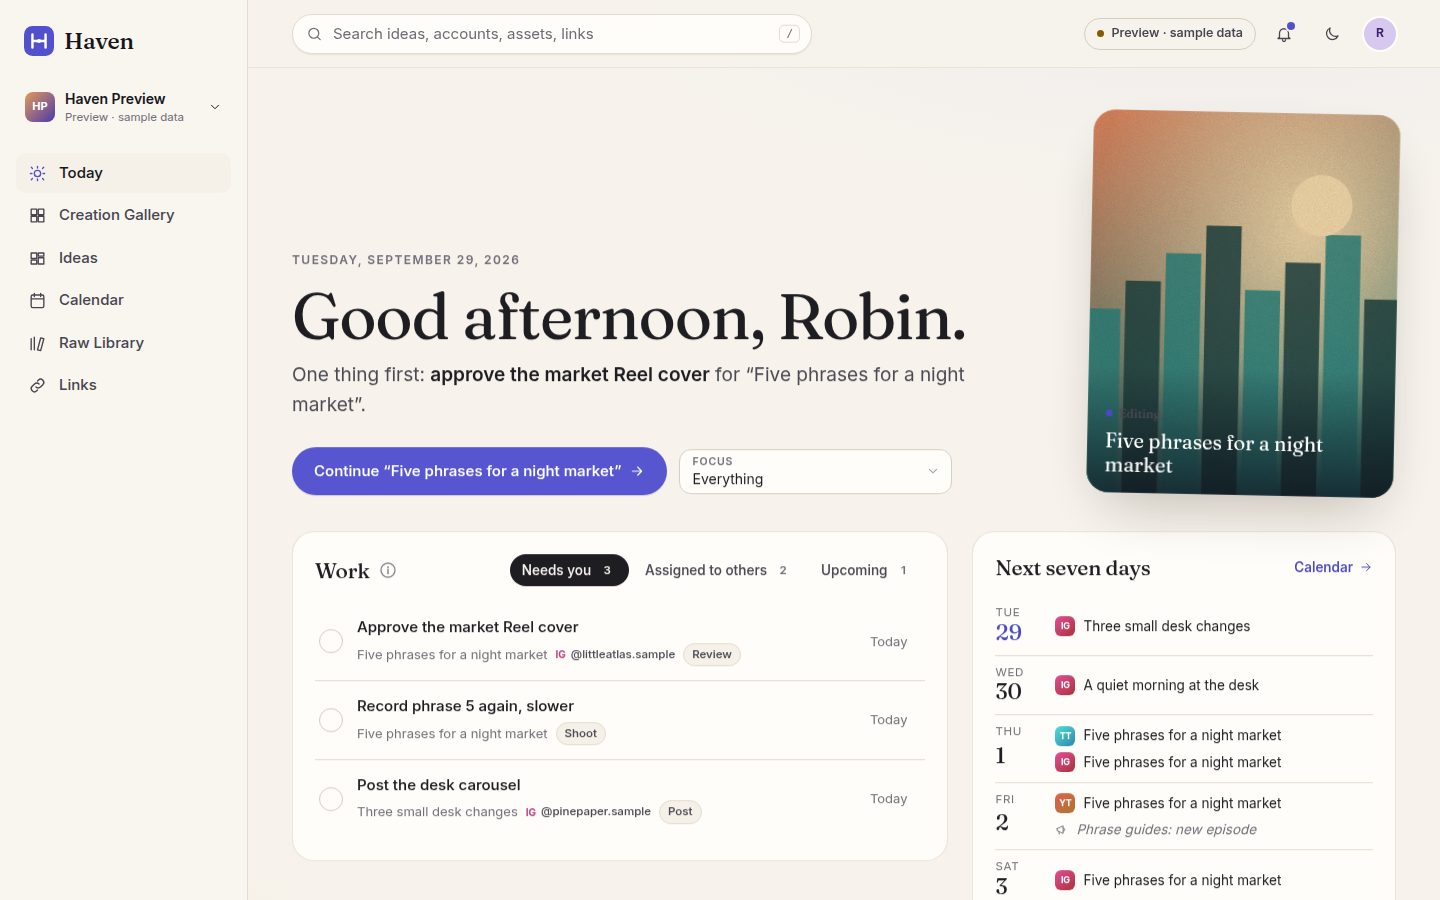
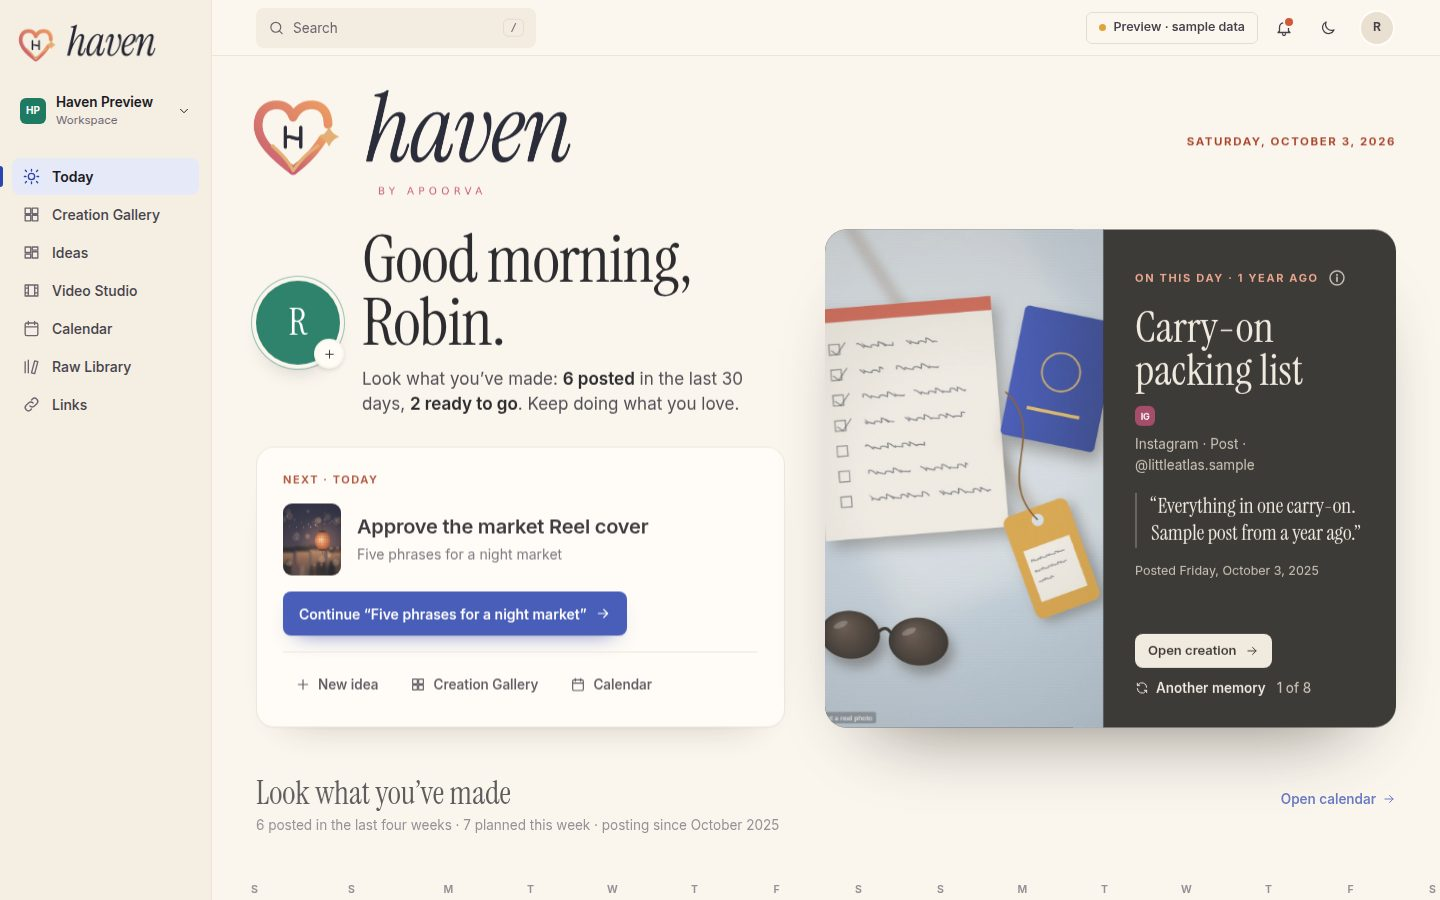
Brand: the Sunlit Rose H heart
- Supplied artwork in public/brand/ (transparent margins trimmed only;
  every visible pixel unchanged). Dark-theme versions recolour just the
  ink (wordmark and the H) to cream; heart, sparkle, tick and byline keep
  their colours.
- "haven / BY APOORVA" on Today's welcome header and the About panel;
  "haven" without the byline in the sidebar and phone drawer; the square
  icon in the collapsed sidebar and phone top bar.
- Favicon, Apple touch icon and a web manifest use the new icon; the old
  H tile, its styles and the temporary wordmark are removed.

Claude-Session: https://claude.ai/code/session_01LAmW9E9r5nQYz3tXkcR9Cd

diff --git a/src/styles/app.css b/src/styles/app.css
@@ -325,12 +325,6 @@ svg {
   gap: 10px;
   padding: 2px 8px;
 }
-.brand__name {
-  font-family: var(--font-display);
-  font-size: 23px;
-  font-weight: 500;
-  letter-spacing: -0.01em;
-}
 
 .nav {
   display: grid;
@@ -4255,11 +4249,10 @@ a.week__item:hover {
     padding: 20px 12px;
     align-items: center;
   }
-  .sidebar .brand__name,
   .sidebar .ws__text,
-  .sidebar .ws__btn > svg,
-  .sidebar .storage-mini,
-  .sidebar .sidebar__note {
+.sidebar .ws__btn > svg,
+.sidebar .storage-mini,
+.sidebar .sidebar__note {
     display: none;
   }
   .ws__btn {
@@ -5332,14 +5325,7 @@ body {
 .brand {
   padding: 0 8px;
 }
-.brand__name {
-  font-size: 26px;
-  font-weight: 400;
-  letter-spacing: 0;
-}
-.haven-mark rect {
-  rx: 8px;
-}
+
 .ws__btn {
   border: 0;
   background: transparent;
@@ -6368,17 +6354,7 @@ body {
 .tabbar__item.active {
   color: var(--cobalt);
 }
-.haven-mark rect {
-  fill: var(--ink);
-}
-.haven-mark path,
-.haven-mark circle {
-  stroke: var(--canvas);
-}
-.haven-mark circle {
-  fill: var(--coral-fill);
-  stroke: none;
-}
+
 .ws__avatar {
   background: var(--jade-fill);
   color: #fff;
@@ -7006,38 +6982,6 @@ body {
   animation-delay: calc(var(--i, 0) * 90ms);
 }
 
-/* Temporary wordmark (replace in src/components/Wordmark.tsx) */
-.wordmark {
-  display: inline-flex;
-  align-items: flex-end;
-  gap: 3px;
-  color: var(--ink);
-}
-.wordmark__type {
-  font-family: var(--font-display);
-  font-size: 34px;
-  line-height: 0.9;
-  letter-spacing: -0.01em;
-}
-.wordmark__dot {
-  width: 7px;
-  height: 7px;
-  margin-bottom: 4px;
-  border-radius: 50%;
-  background: var(--coral-fill);
-}
-.wordmark img {
-  height: 34px;
-  width: auto;
-}
-.wordmark__dark,
-:root[data-theme='dark'] .wordmark__light {
-  display: none;
-}
-:root[data-theme='dark'] .wordmark__dark {
-  display: block;
-}
-
 .t-top {
   display: flex;
   align-items: flex-end;
@@ -7580,9 +7524,7 @@ body {
   .t-top {
     margin-bottom: -8px;
   }
-  .wordmark__type {
-    font-size: 28px;
-  }
+  
   .t-hello__who {
     align-items: flex-start;
     gap: 16px;
@@ -8635,7 +8577,6 @@ body {
   }
 }
 
-
 /* Notes document */
 .notesdoc {
   font-size: 15px;
@@ -9167,7 +9108,6 @@ button.viewbar__btn:hover:not(:disabled) {
     transform: rotate(360deg);
   }
 }
-
 
 /* ==========================================================================
    Video Studio · review player and booklet
@@ -10778,5 +10718,88 @@ button.viewbar__btn:hover:not(:disabled) {
   .psettings__scope {
     flex-basis: 100%;
     order: 3;
+  }
+}
+
+/* ==========================================================================
+   Brand: the Sunlit Rose H (public/brand). Sized by height; the width
+   always follows the artwork, so it never stretches or clips.
+   ========================================================================== */
+.brand-logo {
+  display: block;
+  flex: none;
+  height: var(--logo-h-override, var(--logo-h));
+  width: auto;
+  aspect-ratio: var(--logo-ar);
+  line-height: 0;
+  user-select: none;
+}
+span.brand-logo img {
+  display: block;
+  width: 100%;
+  height: 100%;
+}
+.brand-logo__dark {
+  display: none !important;
+}
+:root[data-theme='dark'] .brand-logo__light {
+  display: none !important;
+}
+:root[data-theme='dark'] .brand-logo__dark {
+  display: block !important;
+}
+.brand {
+  padding: 2px 6px;
+  border-radius: 12px;
+}
+.brand:focus-visible {
+  outline: 2px solid var(--focus);
+  outline-offset: 2px;
+}
+.brand__icon {
+  display: none !important;
+}
+@media (max-width: 1180px) {
+  .sidebar .brand {
+    padding: 0;
+  }
+  .sidebar .brand__wordmark {
+    display: none !important;
+  }
+  .sidebar .brand__icon {
+    display: block !important;
+  }
+}
+.topbar__brand {
+  line-height: 0;
+}
+.drawer__head .brand {
+  padding-left: 2px;
+}
+.t-top {
+  align-items: center;
+}
+/* The founder logo's own transparent margin sits at its left edge. */
+.t-top__logo {
+  margin-left: -4px;
+}
+.about-brand {
+  display: flex;
+  justify-content: center;
+  padding: 6px 0 18px;
+  margin-bottom: 14px;
+  border-bottom: 1px solid var(--hairline);
+}
+@media (max-width: 720px) {
+  .t-top__logo {
+    --logo-h-override: 84px;
+  }
+  .t-top {
+    align-items: flex-start;
+    flex-direction: column;
+    gap: 16px;
+  }
+  .about-brand .brand-logo {
+    --logo-h-override: 96px;
   }
 }

diff --git a/src/components/Shell.tsx b/src/components/Shell.tsx
@@ -10,6 +10,7 @@ import { Modal } from './Modal';
 import { useToast } from './Toast';
 import { Avatar, DemoTag, useDismiss } from './ui';
 import { ProfileSettings } from './ProfileSettings';
+import { BrandLogo } from './Brand';
 import { PALETTES } from '../lib/palettes';
 
 export const NAV: { to: string; label: string; icon: IconName }[] = [
@@ -21,16 +22,6 @@ export const NAV: { to: string; label: string; icon: IconName }[] = [
   { to: '/library', label: 'Raw Library', icon: 'library' },
   { to: '/links', label: 'Links', icon: 'links' },
 ];
-
-export function HavenMark({ size = 30 }: { size?: number }) {
-  return (
-    <svg width={size} height={size} viewBox="0 0 32 32" aria-hidden="true" className="haven-mark">
-      <rect width="32" height="32" rx="9" fill="var(--accent)" />
-      <path d="M9 23V9m14 14V9M9 16h14" stroke="var(--accent-ink)" strokeWidth="2.6" strokeLinecap="round" />
-      <circle cx="16" cy="16" r="2.2" fill="var(--accent-ink)" />
-    </svg>
-  );
-}
 
 export function AppShell() {
   const [quickAdd, setQuickAdd] = useState(false);
@@ -46,8 +37,8 @@ export function AppShell() {
       </a>
       <aside className="sidebar" aria-label="Primary">
         <Link to="/" className="brand" aria-label="Haven — Today">
-          <HavenMark />
-          <span className="brand__name">Haven</span>
+          <BrandLogo variant="wordmark" height={38} className="brand__wordmark" decorative />
+          <BrandLogo variant="icon" height={40} className="brand__icon" decorative />
         </Link>
         <WorkspaceSwitcher />
         <nav className="nav">
@@ -189,7 +180,7 @@ function Topbar({ onMenu, onProfile }: { onMenu: () => void; onProfile: () => vo
         <Icon name="menu" />
       </button>
       <Link to="/" className="topbar__brand" aria-label="Haven — Today">
-        <HavenMark size={26} />
+        <BrandLogo variant="icon" height={32} decorative />
       </Link>
       <SearchBox />
       <div className="topbar__actions">
@@ -414,8 +405,7 @@ function MobileDrawer({ onClose, onProfile }: { onClose: () => void; onProfile: 
       <nav className="drawer" aria-label="All sections">
         <div className="drawer__head">
           <span className="brand">
-            <HavenMark />
-            <span className="brand__name">Haven</span>
+            <BrandLogo variant="wordmark" height={30} />
           </span>
           <button type="button" className="icon-btn" onClick={onClose} aria-label="Close navigation">
             <Icon name="close" />

diff --git a/src/components/Brand.tsx b/src/components/Brand.tsx
@@ -1,0 +1,40 @@
+/*
+ * Haven's brand: the Sunlit Rose H heart. The artwork is the supplied PNGs in
+ * public/brand/, used as-is (only transparent margins trimmed). The dark
+ * versions recolour the ink (wordmark and the H) to cream so it reads on dark
+ * surfaces; the heart, sparkle, tick and byline keep their colours.
+ *
+ *   founder  "haven / BY APOORVA": public-facing and welcome surfaces
+ *   wordmark "haven" without the byline: everyday navigation
+ *   icon     the square app icon: tight spaces, browser tab, home screen
+ */
+
+type Variant = 'founder' | 'wordmark' | 'icon';
+
+const ASSETS: Record<Variant, { light: string; dark?: string; width: number; height: number }> = {
+  founder: { light: '/brand/haven-logo-founder.png', dark: '/brand/haven-logo-founder-dark.png', width: 1184, height: 400 },
+  wordmark: { light: '/brand/haven-logo.png', dark: '/brand/haven-logo-dark.png', width: 1184, height: 327 },
+  icon: { light: '/brand/icon-192.png', width: 192, height: 192 },
+};
+
+/**
+ * The Haven logo at a given height; width follows the artwork's aspect ratio.
+ * Light and dark files are both in the page and the theme shows one, so a
+ * theme change never waits on a download.
+ */
+export function BrandLogo({ variant, height, className = '', decorative = false }: { variant: Variant; height: number; className?: string; decorative?: boolean }) {
+  const a = ASSETS[variant];
+  const width = Math.round((a.width / a.height) * height);
+  const alt = decorative ? '' : variant === 'founder' ? 'Haven, by Apoorva' : 'Haven';
+  const common = { width, height, draggable: false, decoding: 'async' as const };
+  // Height can be overridden per layout in CSS (--logo-h-override); the
+  // aspect ratio always comes from the artwork, so it never stretches.
+  const style = { ['--logo-h' as string]: `${height}px`, ['--logo-ar' as string]: `${a.width} / ${a.height}` };
+  if (!a.dark) return <img {...common} src={a.light} alt={alt} style={style} className={`brand-logo brand-logo--${variant} ${className}`} />;
+  return (
+    <span className={`brand-logo brand-logo--${variant} ${className}`} style={style} role={decorative ? undefined : 'img'} aria-label={decorative ? undefined : alt} aria-hidden={decorative || undefined}>
+      <img {...common} src={a.light} alt="" className="brand-logo__light" />
+      <img {...common} src={a.dark} alt="" className="brand-logo__dark" />
+    </span>
+  );
+}

diff --git a/src/components/AboutPreview.tsx b/src/components/AboutPreview.tsx
@@ -1,5 +1,6 @@
 import { useState } from 'react';
 import { Modal } from './Modal';
+import { BrandLogo } from './Brand';
 
 /** The single place that explains what this preview is and isn't. */
 export function AboutPreviewButton() {
@@ -21,6 +22,9 @@ export function AboutPreviewButton() {
             </button>
           }
         >
+          <div className="about-brand">
+            <BrandLogo variant="founder" height={120} />
+          </div>
           <ul className="about-list">
             <li>
               <strong>Sample content.</strong> The brands, accounts, people, posts and files are fictional.
@@ -35,7 +39,7 @@ export function AboutPreviewButton() {
               <strong>Nothing is published or connected.</strong> Haven doesn’t post anything, and no social accounts are connected. A post shows as Posted only when you mark it and add its link.
             </li>
             <li>
-              <strong>Changes reset on reload.</strong> Only your light or dark choice is remembered.
+              <strong>Changes reset on reload.</strong> Only your own profile photo and look are remembered, in this browser.
             </li>
           </ul>
         </Modal>

diff --git a/src/pages/Today.tsx b/src/pages/Today.tsx
@@ -9,7 +9,7 @@ import { QuickAddModal, useCanCreateIdea } from '../components/Shell';
 import { useToast } from '../components/Toast';
 import { TypeCover } from '../components/TypeCover';
 import { AccountBadge, Avatar, EmptyState, PlatformGlyph, SelectField, StatusPill, TextLink, useSimulatedLoad } from '../components/ui';
-import { Wordmark } from '../components/Wordmark';
+import { BrandLogo } from '../components/Brand';
 import { DayCollage, DayView, dayLabel, useDayParam } from '../components/DayView';
 import { calendarEntries, entriesByDay } from '../lib/posts';
 import { creationLabel } from '../lib/creations';
@@ -84,7 +84,7 @@ export function TodayPage() {
   return (
     <div className="page today">
       <header className="t-top t-rise" style={{ ['--i' as string]: 0 }}>
-        <Wordmark />
+        <BrandLogo variant="founder" height={108} className="t-top__logo" />
         <p className="t-top__date">{formatLongDate(data.today)}</p>
       </header>
 

diff --git a/index.html b/index.html
@@ -5,7 +5,13 @@
     <meta name="viewport" content="width=device-width, initial-scale=1.0" />
     <meta name="description" content="Haven — a calm daily workspace for creators. Milestone 1 interactive demo." />
     <meta name="theme-color" content="#f7f3ec" />
-    <link rel="icon" href="/haven-mark.svg" type="image/svg+xml" />
+    <link rel="icon" href="/brand/favicon-32.png" type="image/png" sizes="32x32" />
+    <link rel="icon" href="/brand/favicon-48.png" type="image/png" sizes="48x48" />
+    <link rel="icon" href="/brand/icon-192.png" type="image/png" sizes="192x192" />
+    <link rel="apple-touch-icon" href="/brand/apple-touch-icon.png" sizes="180x180" />
+    <link rel="manifest" href="/site.webmanifest" />
+    <meta name="apple-mobile-web-app-title" content="Haven" />
+    <meta name="application-name" content="Haven" />
     <title>Haven</title>
     <script>
       // Apply the last personal look on this device before first paint, so a

diff --git a/README.md b/README.md
@@ -75,7 +75,11 @@ Today opens on the creator's own work, then what's next.
 - **Look what you've made:** a ribbon of the last four weeks and the week ahead, with real covers per day; it opens the Day View and the full Calendar.
 - **What's next:** the next task with *Continue*, quick actions (New idea, Creation Gallery, Calendar), *Needs attention* (tasks with Focus), *Coming up* (seven days) and *Pick up where you left off*.
 - **Personal photo (optional):** each person can add one from the photo circle. Preview: it's kept in this browser only (localStorage) and never uploaded. Without one, initials keep the page complete.
-- **Wordmark:** a temporary typographic placeholder at the top of Today. Replace it by putting your SVGs in `public/brand/` and setting the two paths at the top of `src/components/Wordmark.tsx`.
+- **Brand:** the Sunlit Rose H heart, from the supplied artwork in `public/brand/` (transparent margins trimmed, nothing redrawn), placed by `src/components/Brand.tsx`:
+  - *haven / BY APOORVA* on welcome and public-facing surfaces: the top of Today and the About this preview panel;
+  - *haven* without the byline in the sidebar and phone drawer;
+  - the square icon in the collapsed sidebar, the phone top bar, the browser tab, the home-screen icon and `public/site.webmanifest`.
+  - Dark theme uses `*-dark.png` versions in which only the ink (the wordmark and the H) is recoloured cream; the heart, sparkle, tick and byline keep their supplied colours.
 - **Access:** everything comes from the viewer's own data, so *Preview as* a collaborator shows only their memories and work, and never the owner's photo.
 - Motion is subtle (rise-in, film-strip lift, memory crossfade) and switches off with *reduce motion*. Captures: [`docs/redesign/today/`](docs/redesign/today/).
 
